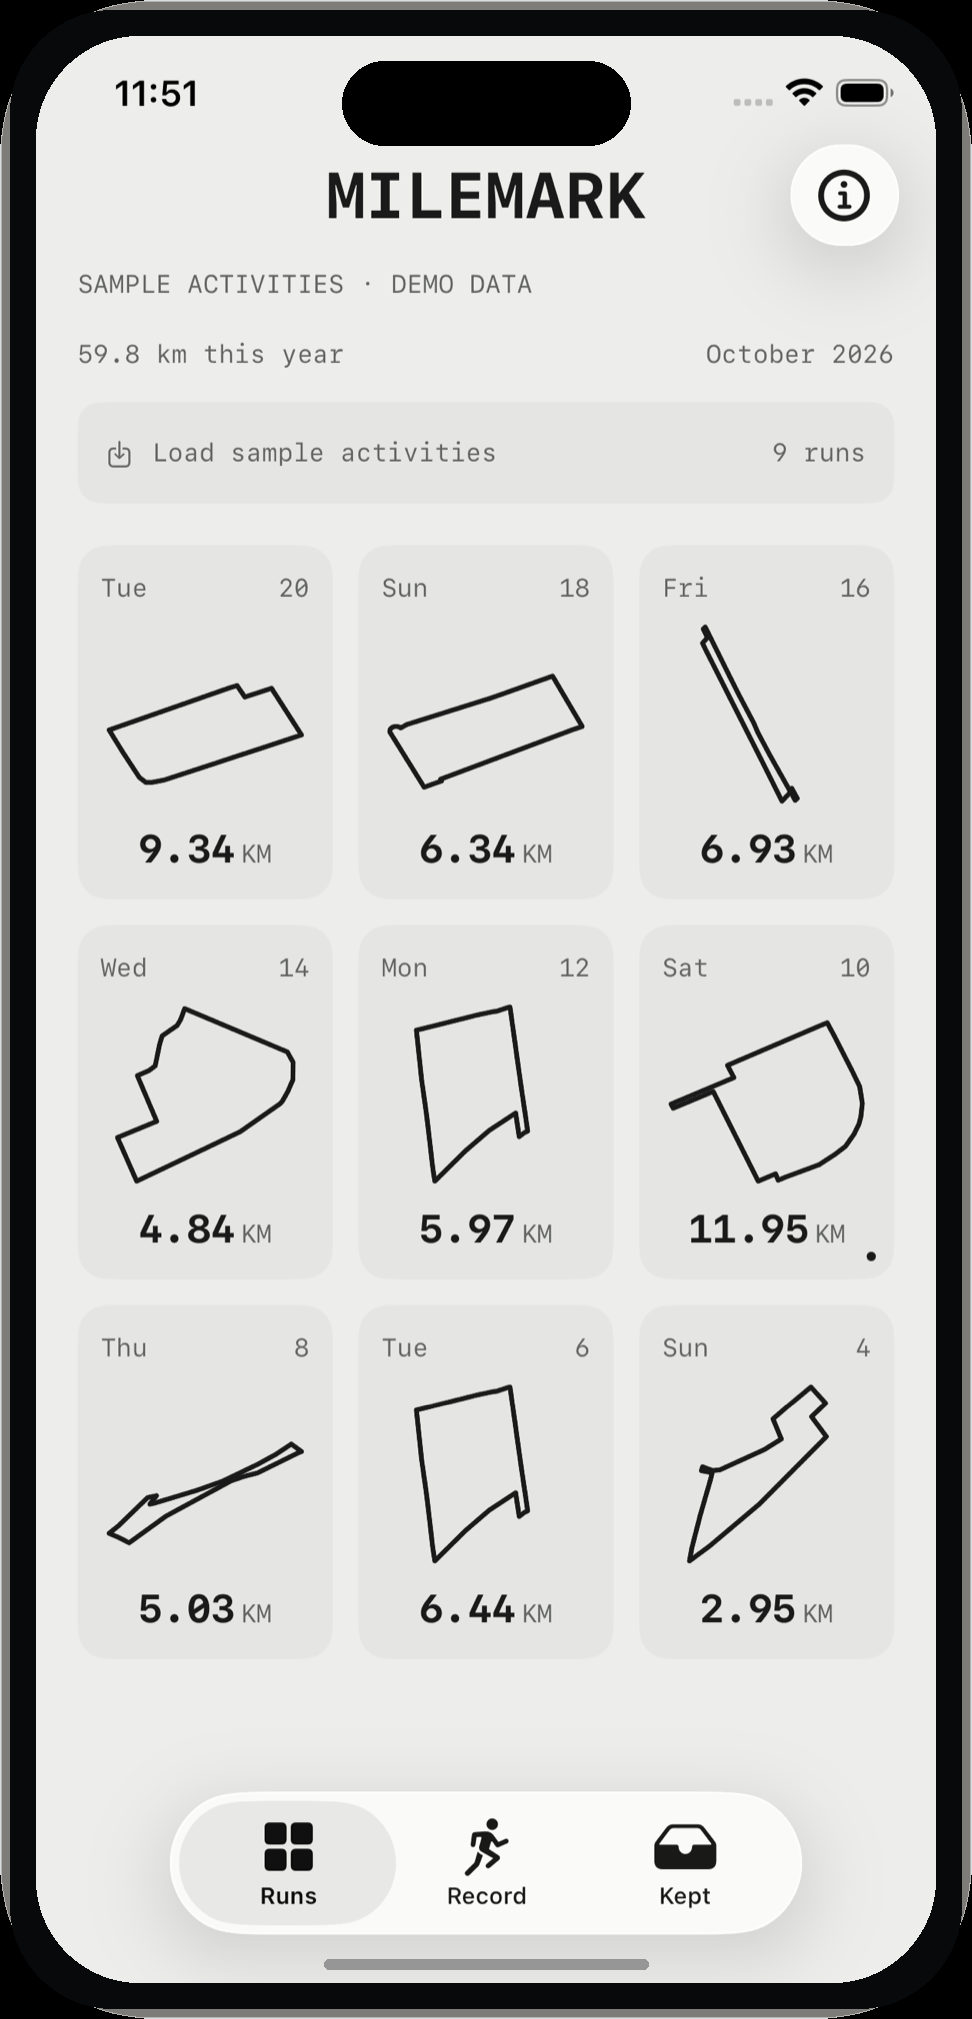
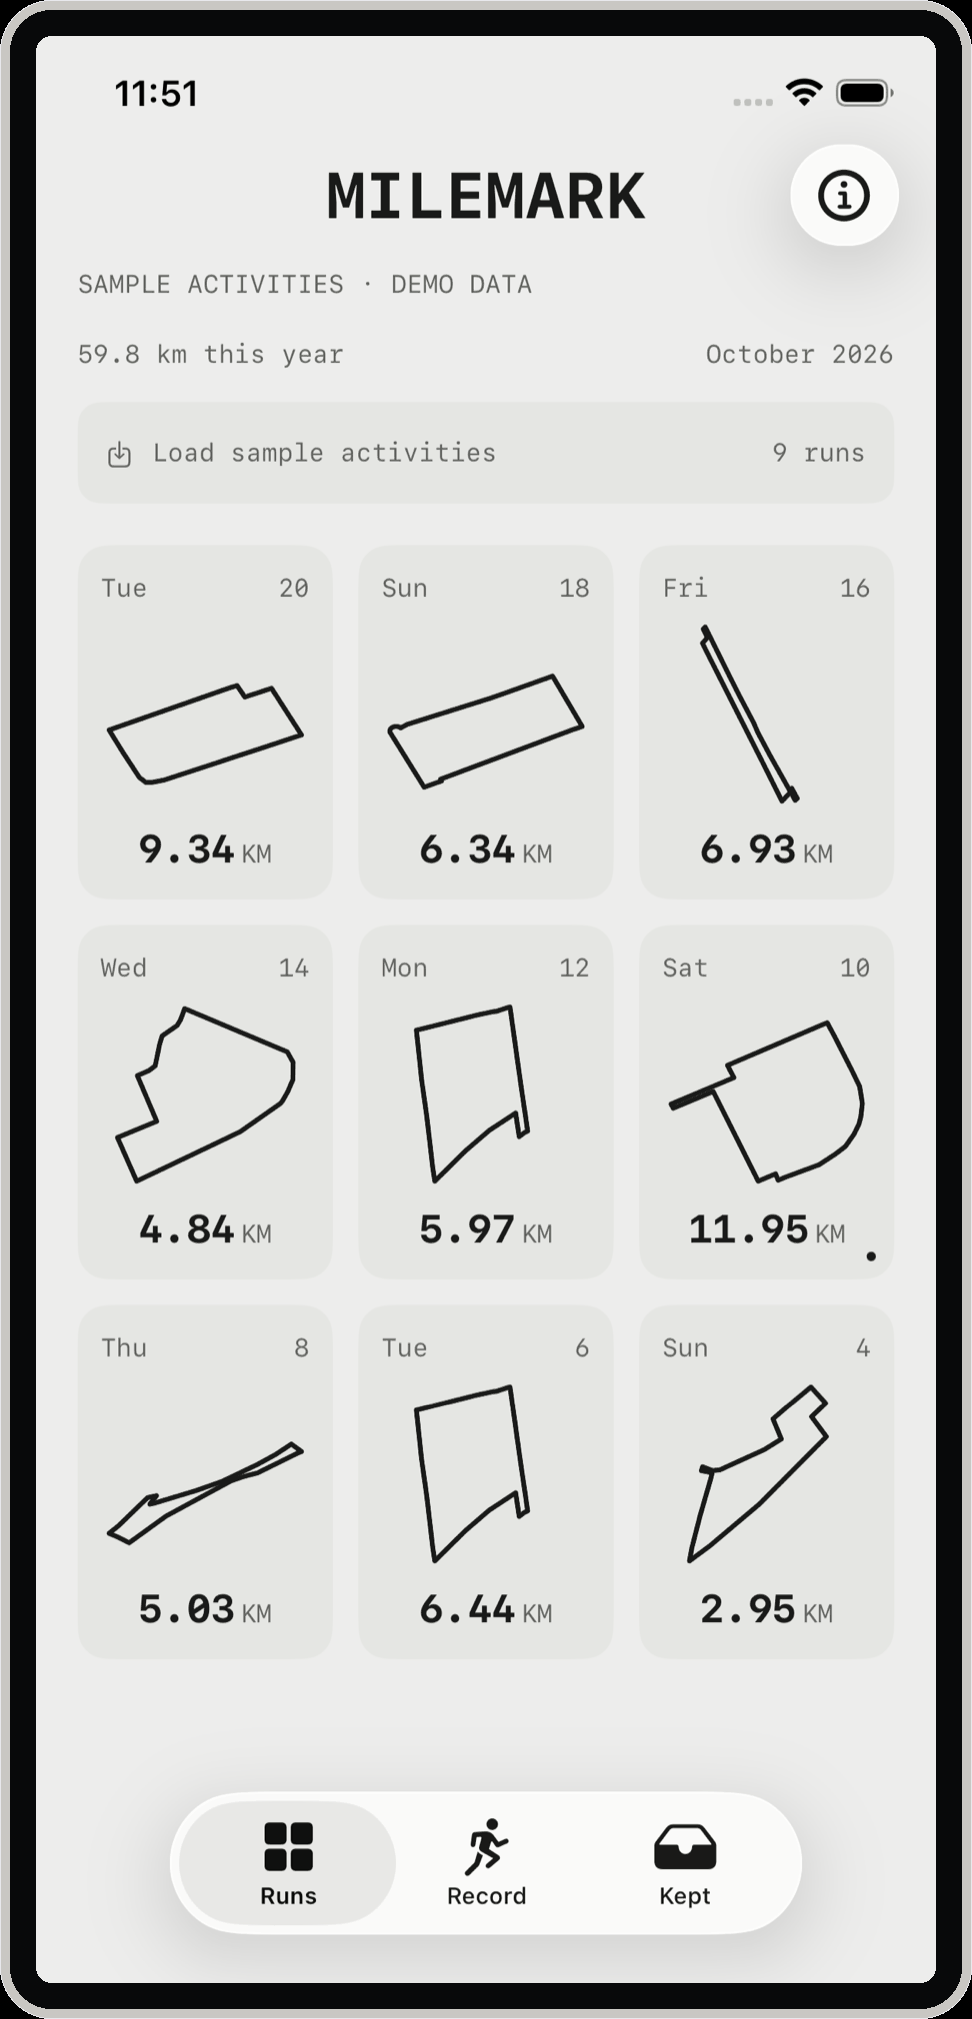
fix: the device is drawn the way the frames in the readme are drawn
The measurements were taken off the rendered file rather than guessed:
two pixels of metal edge, thirteen of metal, thirty-six of black
bezel, and a twenty-one pixel screen radius. The chamfer is a flat
light grey that catches the light rather than a gradient that goes
dark at the bottom, which is what made the border read as heavy.

The still frames have no Dynamic Island and no home indicator, which is
how those frames are done; the demo has the island, because the demo
is a phone.

The readme's screens are laid out the same way as the reference: one
centred hero and a table of two columns, with the images filling their
cell. The import screen moves to the section that explains it.

Changed region(s): [[0.0, 0.0, 1.0, 1.0]]

diff --git a/design/device.py b/design/device.py
@@ -2,14 +2,19 @@
 
 The simulator records the app's screen and not the phone around it, so the
 device is drawn here: a metal edge, the chamfer where the metal turns over,
-the black bezel, the screen with the iPhone's own corner radius, the Dynamic
-Island, and the home indicator.
+the black bezel, and the screen with the iPhone's own corner radius.
 
-One drawing, used by both the still frames and the demo, so the two always
-look like the same phone.
+The proportions are taken from the device the readme's own screenshots use,
+measured off the rendered file rather than guessed:
+
+    2 px   the metal edge, (232, 232, 236)
+   13 px   the metal itself, (201, 199, 195)
+   36 px   the black bezel, (8, 9, 10)
+    21 px  the screen's corner radius
 
 Every measurement is a fraction of the screen's width, so the device is the
-same shape at any size.
+same shape at any size. One drawing, used by both the still frames and the
+demo, so the two always look like the same phone.
 """
 
 from PIL import Image, ImageDraw
@@ -20,8 +25,10 @@ CHAMFER = 0.0108
 BEZEL = 0.0299
 
 # The screen's own corners, and the device's.
-SCREEN_RADIUS = 0.115
-OUTER_RADIUS = 0.135
+# The still frames use a small radius, so the screen reads as a photograph of
+# a screen. The demo uses a rounder one, so the phone reads as a phone.
+SCREEN_RADIUS = 0.0174
+DEMO_SCREEN_RADIUS = 0.115
 
 # The Dynamic Island, as fractions of the screen. On the iPhone 17e it is
 # 125 pt wide on a 390 pt screen, 36.7 pt tall, and 11 pt from the top.
@@ -34,9 +41,8 @@ INDICATOR_WIDTH = 0.360
 INDICATOR_HEIGHT = 0.0052
 INDICATOR_BOTTOM = 0.0075
 
-METAL = (214, 222, 226)
-CHAMFER_TOP = (182, 178, 174)
-CHAMFER_BOTTOM = (126, 124, 120)
+METAL_EDGE = (232, 232, 236)
+METAL = (201, 199, 195)
 BEZEL_COLOUR = (8, 9, 10)
 INDICATOR_COLOUR = (150, 150, 150)
 
@@ -53,7 +59,7 @@ def rounded_mask(size, radius):
     return mask
 
 
-def draw_device(screen, background=None):
+def draw_device(screen, background=None, island=False, indicator=False, screen_radius=SCREEN_RADIUS):
     """Puts a screen inside a drawn iPhone.
 
     The background is what shows around the device. It is `None` for a
@@ -64,7 +70,7 @@ def draw_device(screen, background=None):
     edge = max(1, int(width * EDGE))
     chamfer = max(1, int(width * CHAMFER))
     bezel = max(2, int(width * BEZEL))
-    radius = int(width * SCREEN_RADIUS)
+    radius = int(width * screen_radius)
     mask = rounded_mask(screen.size, radius)
 
     total = (
@@ -80,32 +86,18 @@ def draw_device(screen, background=None):
         fill = lambda colour: colour
 
     draw = ImageDraw.Draw(canvas)
-    outer = int(width * OUTER_RADIUS)
+    # The metal wraps the black bezel, so the two arcs are the same curve
+    # offset by the width of the bezel.
+    outer = radius + bezel + chamfer + edge
+    draw.rounded_rectangle([0, 0, total[0] - 1, total[1] - 1], radius=outer, fill=fill(METAL_EDGE))
     draw.rounded_rectangle(
-        [0, 0, total[0] - 1, total[1] - 1],
-        radius=outer + bezel + chamfer,
+        [edge, edge, total[0] - 1 - edge, total[1] - 1 - edge],
+        radius=outer - edge,
         fill=fill(METAL),
     )
     draw.rounded_rectangle(
-        [edge, edge, total[0] - 1 - edge, total[1] - 1 - edge],
-        radius=outer + bezel,
-        fill=fill(CHAMFER_TOP),
-    )
-    # The chamfer is darker at the bottom, the way metal turns away from the
-    # light.
-    draw.rounded_rectangle(
-        [edge + 1, edge + 1, total[0] - 2 - edge, total[1] - 2 - edge],
-        radius=outer + bezel - 1,
-        fill=fill(CHAMFER_BOTTOM),
-    )
-    draw.rounded_rectangle(
-        [
-            edge + chamfer,
-            edge + chamfer,
-            total[0] - 1 - edge - chamfer,
-            total[1] - 1 - edge - chamfer,
-        ],
-        radius=int(width * SCREEN_RADIUS),
+        [edge + chamfer, edge + chamfer, total[0] - 1 - edge - chamfer, total[1] - 1 - edge - chamfer],
+        radius=outer - edge - chamfer,
         fill=fill(BEZEL_COLOUR),
     )
 
@@ -121,25 +113,27 @@ def draw_device(screen, background=None):
 
     draw = ImageDraw.Draw(canvas)
 
-    # The Dynamic Island, which the simulator does not draw.
-    island_w = int(width * ISLAND_WIDTH)
-    island_h = max(3, int(height * ISLAND_HEIGHT))
-    island_x = origin[0] + (width - island_w) // 2
-    island_y = origin[1] + int(height * ISLAND_TOP)
-    draw.rounded_rectangle(
-        [island_x, island_y, island_x + island_w, island_y + island_h],
-        radius=island_h // 2,
-        fill=fill((0, 0, 0)),
-    )
+    if island:
+        # The Dynamic Island, which the simulator does not draw.
+        island_w = int(width * ISLAND_WIDTH)
+        island_h = max(3, int(height * ISLAND_HEIGHT))
+        island_x = origin[0] + (width - island_w) // 2
+        island_y = origin[1] + int(height * ISLAND_TOP)
+        draw.rounded_rectangle(
+            [island_x, island_y, island_x + island_w, island_y + island_h],
+            radius=island_h // 2,
+            fill=fill((0, 0, 0)),
+        )
 
-    # The home indicator, which the simulator does not draw either.
-    bar_w = int(width * INDICATOR_WIDTH)
-    bar_h = max(2, int(height * INDICATOR_HEIGHT))
-    bar_x = origin[0] + (width - bar_w) // 2
-    bar_y = origin[1] + height - int(height * INDICATOR_BOTTOM) - bar_h
-    draw.rounded_rectangle(
-        [bar_x, bar_y, bar_x + bar_w, bar_y + bar_h],
-        radius=bar_h // 2,
-        fill=fill(INDICATOR_COLOUR),
-    )
+    if indicator:
+        # The home indicator, which the simulator does not draw either.
+        bar_w = int(width * INDICATOR_WIDTH)
+        bar_h = max(2, int(height * INDICATOR_HEIGHT))
+        bar_x = origin[0] + (width - bar_w) // 2
+        bar_y = origin[1] + height - int(height * INDICATOR_BOTTOM) - bar_h
+        draw.rounded_rectangle(
+            [bar_x, bar_y, bar_x + bar_w, bar_y + bar_h],
+            radius=bar_h // 2,
+            fill=fill(INDICATOR_COLOUR),
+        )
     return canvas

diff --git a/design/frame-demo.py b/design/frame-demo.py
@@ -30,7 +30,12 @@ COLOURS = 96
 
 def frame_device(screen: Image.Image) -> Image.Image:
     """Puts a screen inside the drawn iPhone."""
-    return device.draw_device(screen, background=device.GITHUB_DARK)
+    return device.draw_device(
+        screen,
+        background=device.GITHUB_DARK,
+        island=True,
+        screen_radius=device.DEMO_SCREEN_RADIUS,
+    )
 
 
 def main() -> int:

diff --git a/README.md b/README.md
@@ -29,7 +29,7 @@
 
 <p align="center">
   <a href="design/demo/milemark-demo.mp4"><strong>Watch the 28-second demo</strong></a><br />
-  <sub>One continuous take · Normal speed · MP4 under 200 KB</sub>
+  <sub>Native iOS · One continuous take · Normal speed · MP4 under 200 KB</sub>
 </p>
 
 Open a run, watch the receipt feed out of the tray, then pull the paper off. The
@@ -75,51 +75,45 @@ something you look at, keep, and hand over.
 <table>
   <tr>
     <td width="50%">
-      <img width="300" src="Screenshots/frames/01-archive.png" alt="The archive: nine runs, each as its own route silhouette with a date and a distance" />
+      <img src="Screenshots/frames/01-archive.png" alt="The archive: nine runs, each as its own route silhouette with a date and a distance" />
       <br /><sub><strong>Archive</strong> — every route as its own shape, with its date and distance.</sub>
     </td>
     <td width="50%">
-      <img width="300" src="Screenshots/frames/03-receipt-ascii.png" alt="The same route printed as a field of the letters R, U and N" />
+      <img src="Screenshots/frames/03-receipt-ascii.png" alt="The same route printed as a field of the letters R, U and N" />
       <br /><sub><strong>ASCII</strong> — the same route, printed row by row as a field of characters.</sub>
     </td>
   </tr>
   <tr>
     <td width="50%">
-      <img width="300" src="Screenshots/frames/04-receipt-pace.png" alt="A chart of pace for each kilometre of the run, with the fastest kilometre marked" />
+      <img src="Screenshots/frames/04-receipt-pace.png" alt="A chart of pace for each kilometre of the run, with the fastest kilometre marked" />
       <br /><sub><strong>Pace</strong> — a chart per kilometre that you can scrub, with the fastest one marked.</sub>
     </td>
     <td width="50%">
-      <img width="300" src="Screenshots/frames/08-photo.png" alt="A photograph printed as a hard two-tone poster of dots" />
+      <img src="Screenshots/frames/08-photo.png" alt="A photograph printed as a hard two-tone poster of dots" />
       <br /><sub><strong>Photo</strong> — a photograph printed three ways: halftone, ordered dither, poster.</sub>
     </td>
   </tr>
   <tr>
     <td width="50%">
-      <img width="300" src="Screenshots/frames/07-tracking.png" alt="The recording screen: a quiet muted map with a vivid orange track and the distance counting up" />
+      <img src="Screenshots/frames/07-tracking.png" alt="The recording screen: a quiet muted map with a vivid orange track and the distance counting up" />
       <br /><sub><strong>Recording</strong> — a quiet map, a vivid track, and the paper that will come out of it.</sub>
     </td>
     <td width="50%">
-      <img width="300" src="Screenshots/frames/05-share.png" alt="The share preview: the route with its first and last fifteen per cent trimmed, and the privacy copy beneath it" />
+      <img src="Screenshots/frames/05-share.png" alt="The share preview: the route with its first and last fifteen per cent trimmed, and the privacy copy beneath it" />
       <br /><sub><strong>Share</strong> — the image that leaves the phone, with the route's ends trimmed.</sub>
     </td>
   </tr>
   <tr>
     <td width="50%">
-      <img width="300" src="Screenshots/frames/06-kept.png" alt="The collection of kept receipts" />
+      <img src="Screenshots/frames/06-kept.png" alt="The collection of kept receipts" />
       <br /><sub><strong>Kept</strong> — the receipts you decided to keep.</sub>
     </td>
     <td width="50%">
-      <img width="300" src="Screenshots/frames/09-receipt-large-text.png" alt="The same receipt at the largest text size, with the title wrapped, the statistics in two columns and each action on a row of its own" />
+      <img src="Screenshots/frames/09-receipt-large-text.png" alt="The same receipt at the largest text size, with the title wrapped, the statistics in two columns and each action on a row of its own" />
       <br /><sub><strong>Large text</strong> — the same receipt at <code>accessibility3</code>. The layout gives way rather than the type shrinking back down.</sub>
     </td>
   </tr>
 </table>
-
-<p align="center">
-  <img src="Screenshots/frames/11-import.png" width="300" alt="The Strava import screen: a Connect to Strava button, and the note that your password is never seen by the app" />
-  <br />
-  <sub><strong>Import</strong> — bring in runs recorded by another app. The browser does not open on its own; the app asks first.</sub>
-</p>
 
 ## What's built
 
@@ -267,6 +261,12 @@ cannot use them.
 |---|---|---|
 | **Health** | The HealthKit capability on your app's identifier, and a provisioning profile that includes it | Free, but it needs the $99 Apple Developer Program |
 | **Strava** | A client ID and secret from [strava.com/settings/api](https://www.strava.com/settings/api), with the redirect URI registered as `milemark://strava/callback` | A Strava subscription — $11.99/month or $79.99/year — which is now a prerequisite for creating an API application. No extra API fee on top of it |
+
+<p align="center">
+  <img src="Screenshots/frames/11-import.png" width="300" alt="The Strava import screen: a Connect to Strava button, and the note that your password is never seen by the app" />
+  <br />
+  <sub><strong>Import</strong> — bring in runs recorded by another app. The browser does not open on its own; the app asks first.</sub>
+</p>
 
 The Strava keys are build settings, not values in the repository:
 
